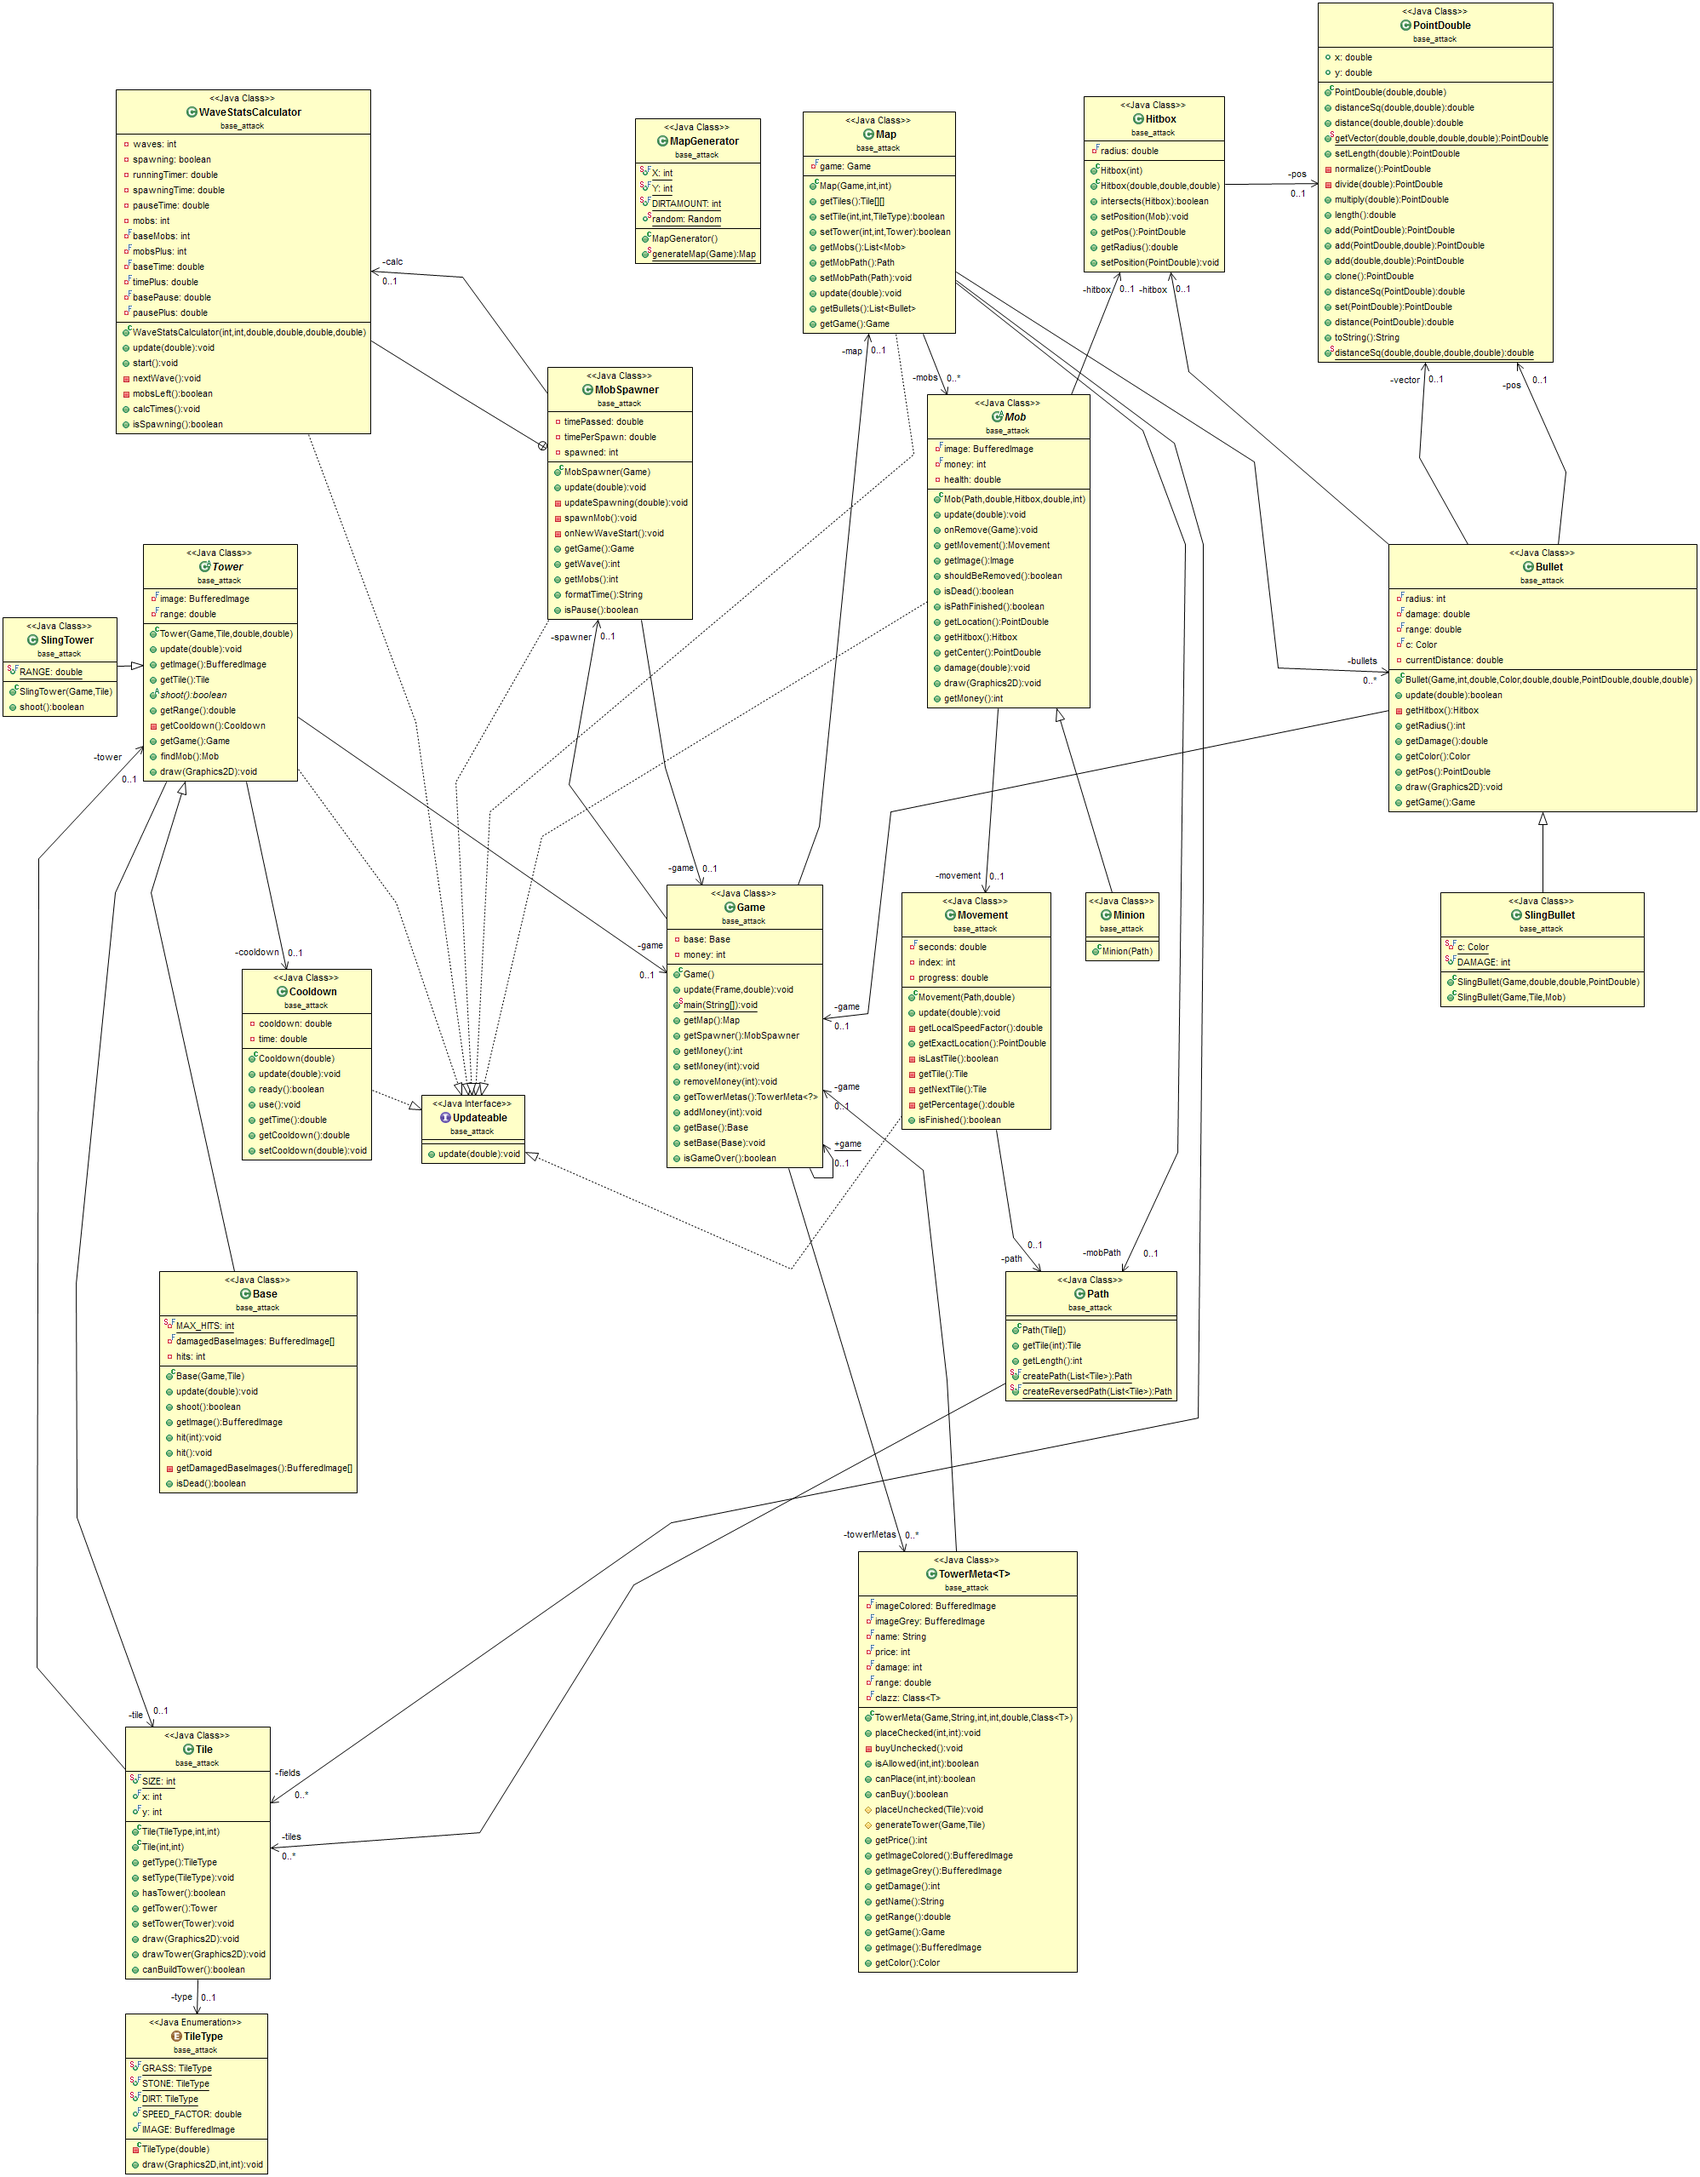
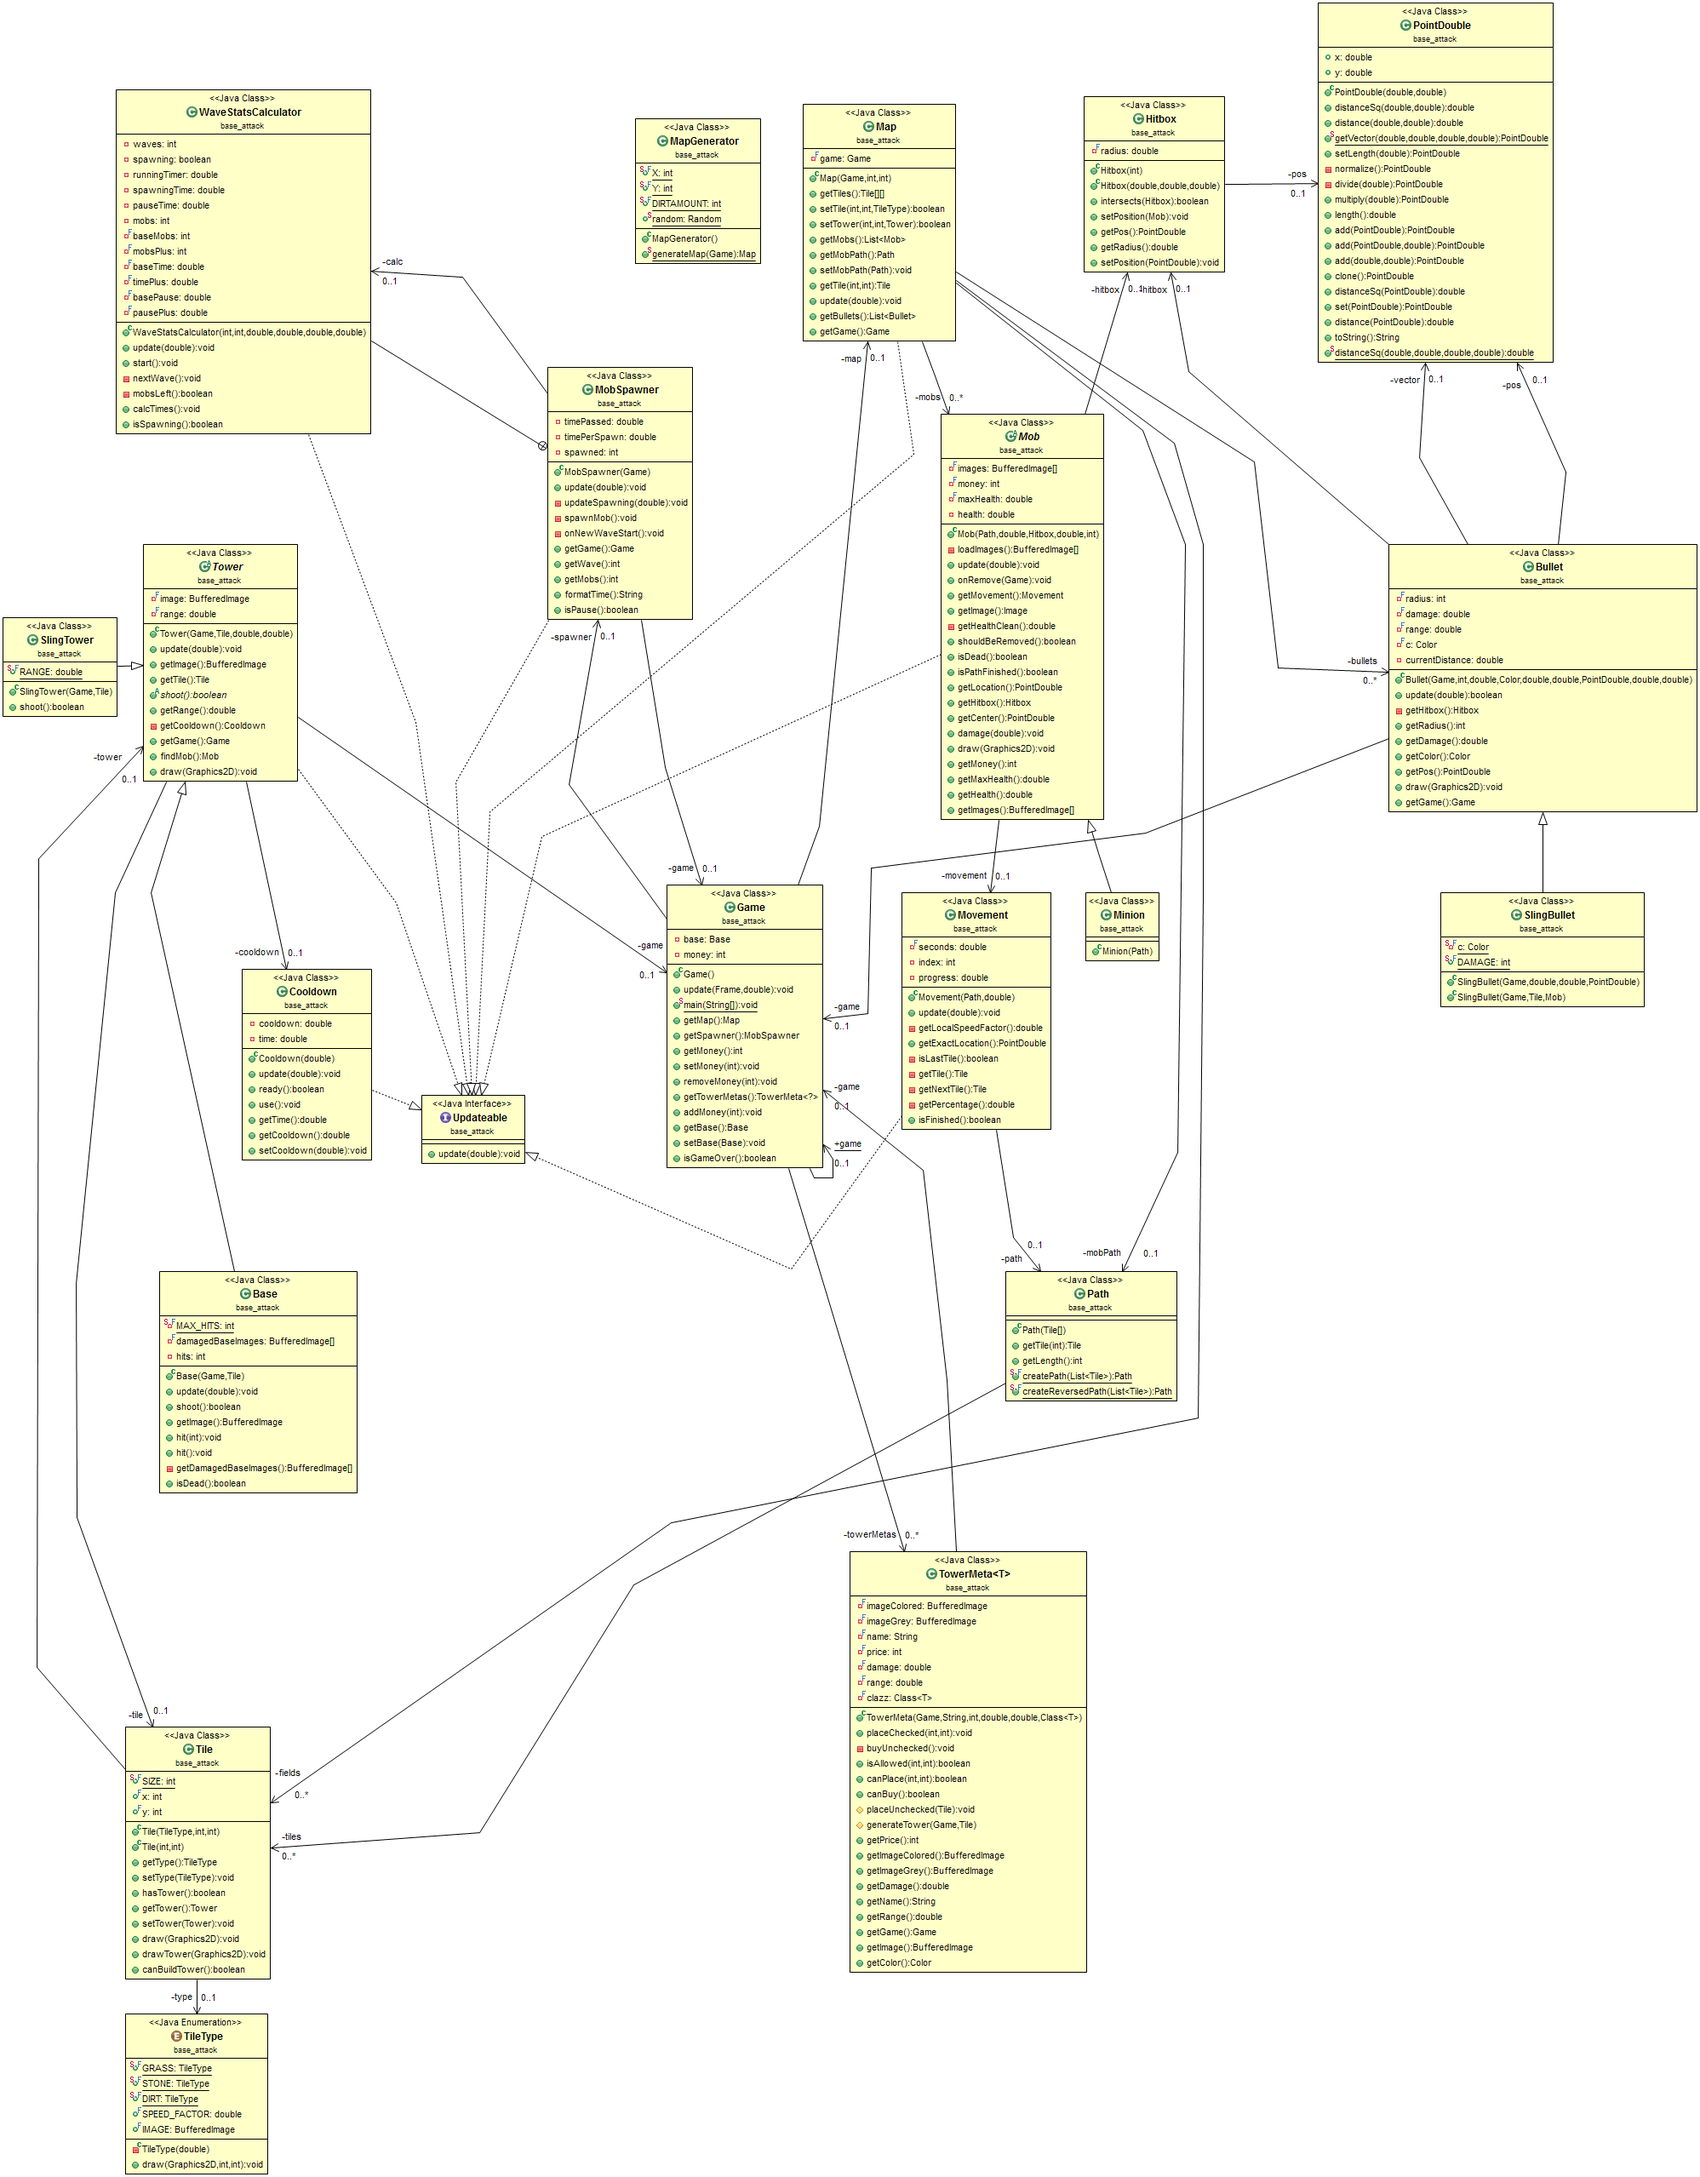
UML update, Towerdisplay now shows dmg/s instead of dmg, Minion3 added

Changed region(s): [[0.4657, 0.0309, 0.652, 0.4016], [0.4967, 0.7106, 0.5899, 0.9269], [0.6209, 0.7106, 0.652, 0.896]]

diff --git a/src/base_attack/TowerMeta.java b/src/base_attack/TowerMeta.java
@@ -12,19 +12,23 @@ public class TowerMeta<T extends Tower> {
 	private final BufferedImage imageColored, imageGrey;
 	private final String name;
 	private final int price;
-	private final double damage;
-	private final double range;
+	private final double damage, cooldown, range;
 	private final Class<T> clazz;
 	
-	public TowerMeta(Game game, String name, int price, double damage, double range, Class<T> clazz) {
+	public TowerMeta(Game game, String name, int price, double damage, double cooldown, double range, Class<T> clazz) {
 		this.game = game;
 		this.imageColored = Images.loadImage(clazz.getSimpleName());
 		this.imageGrey = Images.loadImage(clazz.getSimpleName() + "Grey");
 		this.name = name;
 		this.price = price;
 		this.damage = damage;
+		this.cooldown = cooldown;
 		this.range = range;
 		this.clazz = clazz;
+	}
+	
+	public TowerMeta(Game game, String name, int price, Class<T> clazz) {
+		this(game, name, price, getDamage(clazz), getCooldown(clazz), getRange(clazz), clazz);
 	}
 
 	public void placeChecked(int x, int y) {
@@ -111,6 +115,38 @@ public class TowerMeta<T extends Tower> {
 
 	public Color getColor() {
 		return canBuy() ? Color.GREEN.darker() : Color.RED.darker();
+	}
+
+	public double getCooldown() {
+		return cooldown;
+	}
+
+	private static double getRange(Class<?> c) {
+		try {
+			return (double) c.getDeclaredField("RANGE").get(null);
+		} catch (Exception e) {
+			throw new RuntimeException("Exception while getting 'RANGE' of " + c.getSimpleName(), e);
+		}
+	}
+
+	private static double getCooldown(Class<?> c) {
+		try {
+			return (double) c.getDeclaredField("COOLDOWN").get(null);
+		} catch (Exception e) {
+			throw new RuntimeException("Exception while getting 'COOLDOWN' of " + c.getSimpleName(), e);
+		}
+	}
+
+	private static double getDamage(Class<?> c) {
+		try {
+			return Double.parseDouble(String.valueOf(getBulletClass(c).getDeclaredField("DAMAGE").get(null)));
+		} catch (Exception e) {
+			throw new RuntimeException("Exception while getting 'DAMAGE' of " + c.getSimpleName(), e);
+		}
+	}
+
+	private static Class<?> getBulletClass(Class<?> c) throws ClassNotFoundException {
+		return Class.forName(c.getName().replace("Tower", "Bullet"));
 	}
 
 }

diff --git a/src/base_attack/ui/TowerMetaDisplay.java b/src/base_attack/ui/TowerMetaDisplay.java
@@ -21,13 +21,15 @@ public class TowerMetaDisplay extends Container implements Spot {
 	FONT_WIDTH = FONT_HEIGHT*2/3;
 	
 	public static final double
-	fontHeightActual = FONT_HEIGHT*2/3d;
+	fontHeightActual = FONT_HEIGHT*2/3d,
+	SCALING = 1;
 	
 	public static final Font FONT = new Font("Arial", Font.BOLD, FONT_HEIGHT);
 	
 	public static final BufferedImage
 	RANGE = Images.loadImage("Range"),
-	DAMAGE = Images.loadImage("Damage");
+	DAMAGE = Images.loadImage("Damage"),
+	CLOCK = Images.loadImage("Clock");
 	
 	public static final int
 	LINE_HEIGHT = 50,
@@ -67,7 +69,10 @@ public class TowerMetaDisplay extends Container implements Spot {
 			
 			g.translate(0, FONT_HEIGHT_AND_GAP); //TRANSLATE
 			
-		}	
+		}
+		
+		g = (Graphics2D) g.create();
+		g.scale(SCALING, SCALING);
 		
 		{//PRICE
 			
@@ -79,18 +84,28 @@ public class TowerMetaDisplay extends Container implements Spot {
 			
 			g.translate(WIDTH_SPACE, 0); //TRANSLATE
 			
-		}	
+		}
 		
 		{//DAMAGE
 			
 			Display.drawInCenter(g, DAMAGE, LINE_HEIGHT);
 			
-			drawString(g, meta.getDamage(), HEIGHT_AND_GAP, STRING_HEIGHT);
+			drawString(g, meta.getDamage()/meta.getCooldown(), HEIGHT_AND_GAP, STRING_HEIGHT);
+			
+			g.translate(WIDTH_SPACE + GAP, 0); //TRANSLATE
+			
+		}
+		/*
+		{//COOLDOWN
+			
+			Display.drawInCenter(g, CLOCK, LINE_HEIGHT);
+			
+			drawString(g, meta.getCooldown(), HEIGHT_AND_GAP, STRING_HEIGHT);
 			
 			g.translate(WIDTH_SPACE, 0); //TRANSLATE
 			
-		}	
-		
+		}
+		*/
 		{//RANGE
 			
 			Display.drawInCenter(g, RANGE, LINE_HEIGHT);

diff --git a/src/base_attack/Game.java b/src/base_attack/Game.java
@@ -11,8 +11,8 @@ public class Game {
 	private final MobSpawner spawner = new MobSpawner(this);
 	
 	private final TowerMeta<?>[] towerMetas = new TowerMeta<?>[]{
-			new TowerMeta<SlingTower>(this, "Sling Tower", 10, SlingBullet.DAMAGE, SlingTower.RANGE, SlingTower.class),
-			new TowerMeta<MPTower>(this, "MP Tower", 35, MPBullet.DAMAGE, MPTower.RANGE, MPTower.class),
+			new TowerMeta<SlingTower>(this, "Sling Tower", 10, SlingTower.class),
+			new TowerMeta<MPTower>(this, "MP Tower", 35, MPTower.class),
 	};
 	
 	private Base base;

diff --git a/src/base_attack/SlingTower.java b/src/base_attack/SlingTower.java
@@ -2,10 +2,10 @@ package base_attack;
 
 public class SlingTower extends Tower {
 	
-	public static final double RANGE = 4.5;
+	public static final double RANGE = 4.5, COOLDOWN = 5;
 
 	public SlingTower(Game game, Tile tile) {
-		super(game, tile, 5, RANGE);
+		super(game, tile, COOLDOWN, RANGE);
 	}
 
 	@Override

diff --git a/src/base_attack/MPTower.java b/src/base_attack/MPTower.java
@@ -2,10 +2,10 @@ package base_attack;
 
 public class MPTower extends Tower {
 	
-	public static final double RANGE = 2.5;
+	public static final double RANGE = 2.5, COOLDOWN = 0.5;
 
 	public MPTower(Game game, Tile tile) {
-		super(game, tile, 0.5, RANGE);
+		super(game, tile, COOLDOWN, RANGE);
 	}
 
 	@Override
